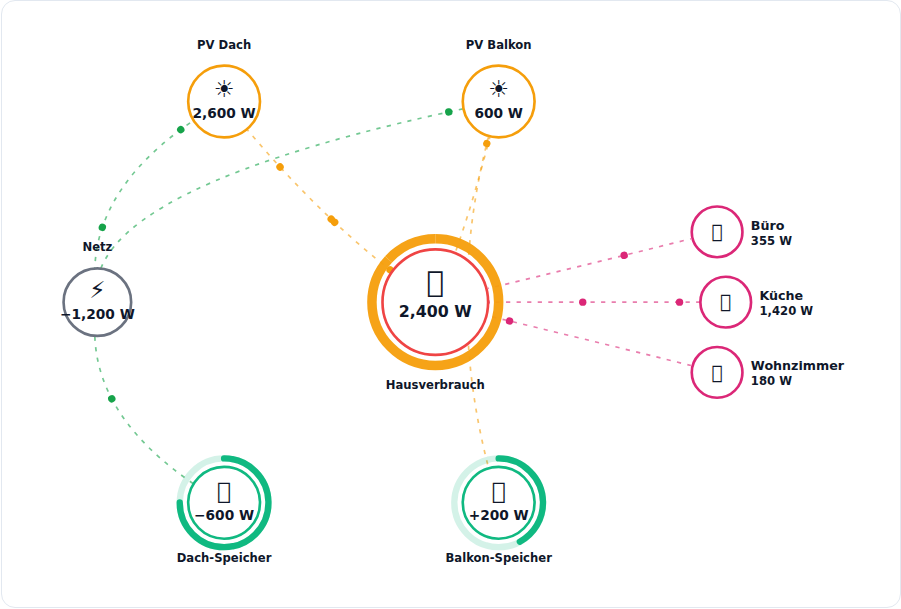
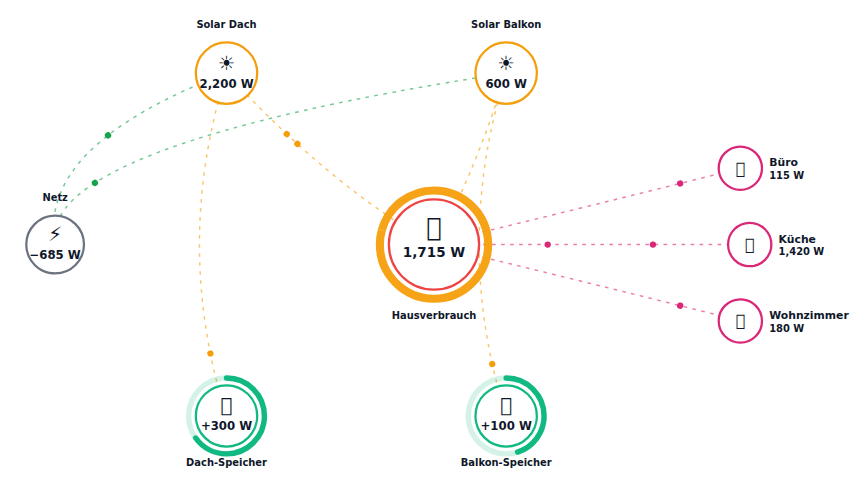
feat(preview): add by-area scenario + regenerate by-area-grouping.png
examples/preview-mocks.ts: MockScenario erweitert um optionale entities/
devices/areas Registry-Felder; buildMockHass exportiert sie für
derive-display-consumers.ts (ADR-0016). Neue Scenario "🏠 Area-Gruppierung"
mit 8 Sensoren in 3 Areas (Büro/Küche/Wohnzimmer) — demonstriert das
consumer_grouping: by_area Feature und ermöglicht Screenshot-Regen.

docs/screenshots/by-area-grouping.png: neu erzeugt via Playwright auf der
neuen 16:9-Geometrie. Zeigt: 8 Sensoren → 3 alphabetisch sortierte
Raum-Knoten (Büro 115W, Küche 1.420W, Wohnzimmer 180W).

diff --git a/examples/preview-mocks.ts b/examples/preview-mocks.ts
@@ -5,11 +5,33 @@ export interface MockHassEntity {
   attributes?: Record<string, unknown>;
 }
 
+export interface MockEntityRegistry {
+  area_id?: string | null;
+  device_id?: string | null;
+}
+
+export interface MockDeviceRegistry {
+  area_id?: string | null;
+}
+
+export interface MockAreaRegistry {
+  area_id: string;
+  name: string;
+  icon?: string;
+}
+
 export interface MockScenario {
   name: string;
   emoji: string;
   config: Config;
   hassStates: Record<string, MockHassEntity>;
+  // Optional HA-Registry-Mocks für `consumer_grouping: by_area` (ADR-0016).
+  // derive-display-consumers.ts liest hass.entities/devices/areas, um Sensoren
+  // pro Area zu gruppieren. Ohne diese Felder fällt der Renderer auf
+  // einzel-Verbraucher zurück.
+  entities?: Record<string, MockEntityRegistry>;
+  devices?: Record<string, MockDeviceRegistry>;
+  areas?: Record<string, MockAreaRegistry>;
 }
 
 const baseConfig = (): Config => ({
@@ -279,8 +301,101 @@ export const scenarios: MockScenario[] = [
       'sensor.stove': { state: '95', attributes: wAttrs },
     },
   },
+  // by-area Grouping (ADR-0016): 8 Smart-Plug-Sensoren werden automatisch in
+  // 3 Raum-Knoten gemerged (Büro / Küche / Wohnzimmer). Benötigt entities +
+  // areas Registry. Demonstriert das Feature für README-Screenshots.
+  {
+    name: 'Area-Gruppierung · 8 Sensoren → 3 Räume',
+    emoji: '🏠',
+    config: {
+      type: 'custom:custom-energy-flow-card',
+      title: 'Energiefluss · Area-Gruppierung',
+      solar: [
+        { id: 'dach', name: 'Solar Dach', power: 'sensor.s_dach' },
+        { id: 'balkon', name: 'Solar Balkon', power: 'sensor.s_balkon' },
+      ],
+      battery: [
+        {
+          id: 'b_dach',
+          name: 'Dach-Speicher',
+          soc: 'sensor.b_dach_soc',
+          power: 'sensor.b_dach_power',
+          charged_by: 'dach',
+        },
+        {
+          id: 'b_balkon',
+          name: 'Balkon-Speicher',
+          soc: 'sensor.b_balkon_soc',
+          power: 'sensor.b_balkon_power',
+          charged_by: 'balkon',
+        },
+      ],
+      grid: { power: 'sensor.grid_power' },
+      consumers: [
+        { name: 'PC', power: 'sensor.pc' },
+        { name: 'Monitor', power: 'sensor.monitor' },
+        { name: 'Herd', power: 'sensor.stove_area' },
+        { name: 'Geschirrspüler', power: 'sensor.dishwasher' },
+        { name: 'Mikrowelle', power: 'sensor.microwave' },
+        { name: 'TV', power: 'sensor.tv' },
+        { name: 'Soundbar', power: 'sensor.soundbar' },
+        { name: 'Licht', power: 'sensor.light' },
+      ],
+      display: {
+        active_threshold_w: 5,
+        number_format: 'grouped',
+        show_inactive_paths: false,
+        consumer_grouping: 'by_area',
+      },
+    },
+    hassStates: {
+      'sensor.s_dach': { state: '2200', attributes: wAttrs },
+      'sensor.s_balkon': { state: '600', attributes: wAttrs },
+      'sensor.b_dach_soc': { state: '65', attributes: pctAttrs },
+      'sensor.b_dach_power': { state: '300', attributes: wAttrs },
+      'sensor.b_balkon_soc': { state: '45', attributes: pctAttrs },
+      'sensor.b_balkon_power': { state: '100', attributes: wAttrs },
+      'sensor.grid_power': { state: '-685', attributes: wAttrs },
+      // Büro
+      'sensor.pc': { state: '80', attributes: wAttrs },
+      'sensor.monitor': { state: '35', attributes: wAttrs },
+      // Küche
+      'sensor.stove_area': { state: '800', attributes: wAttrs },
+      'sensor.dishwasher': { state: '500', attributes: wAttrs },
+      'sensor.microwave': { state: '120', attributes: wAttrs },
+      // Wohnzimmer
+      'sensor.tv': { state: '100', attributes: wAttrs },
+      'sensor.soundbar': { state: '30', attributes: wAttrs },
+      'sensor.light': { state: '50', attributes: wAttrs },
+    },
+    entities: {
+      'sensor.pc': { area_id: 'office' },
+      'sensor.monitor': { area_id: 'office' },
+      'sensor.stove_area': { area_id: 'kitchen' },
+      'sensor.dishwasher': { area_id: 'kitchen' },
+      'sensor.microwave': { area_id: 'kitchen' },
+      'sensor.tv': { area_id: 'livingroom' },
+      'sensor.soundbar': { area_id: 'livingroom' },
+      'sensor.light': { area_id: 'livingroom' },
+    },
+    areas: {
+      office: { area_id: 'office', name: 'Büro' },
+      kitchen: { area_id: 'kitchen', name: 'Küche' },
+      livingroom: { area_id: 'livingroom', name: 'Wohnzimmer' },
+    },
+  },
 ];
 
-export function buildMockHass(scenario: MockScenario): { states: Record<string, MockHassEntity> } {
-  return { states: scenario.hassStates };
+export function buildMockHass(scenario: MockScenario): {
+  states: Record<string, MockHassEntity>;
+  entities?: Record<string, MockEntityRegistry>;
+  devices?: Record<string, MockDeviceRegistry>;
+  areas?: Record<string, MockAreaRegistry>;
+} {
+  return {
+    states: scenario.hassStates,
+    entities: scenario.entities,
+    devices: scenario.devices,
+    areas: scenario.areas,
+  };
 }